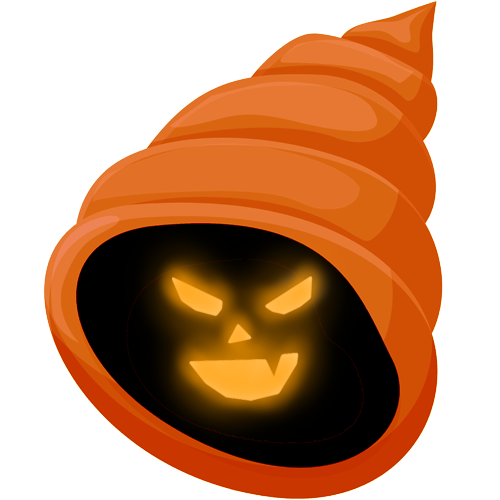
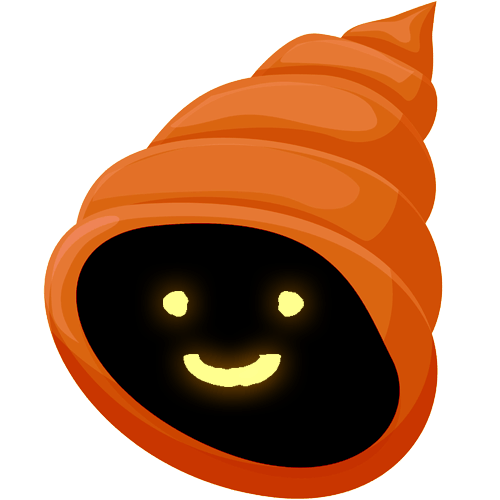
Added conch expressions

Changed region(s): [[0.3, 0.48, 0.69, 0.87]]

diff --git a/src/lib/dialog/conch.ts b/src/lib/dialog/conch.ts
@@ -8,6 +8,11 @@ import thinking from "$assets/emoji/thinking.svg";
 import confused from "$assets/emoji/confused.svg";
 import dizzy from "$assets/emoji/dizzy.svg";
 import conch_smile from "$assets/characters/conch/smile.png";
+import conch_scary from "$assets/characters/conch/scary.png";
+import conch_openMouth from "$assets/characters/conch/openMouth.png";
+import conch_frown from "$assets/characters/conch/frown.png";
+import conch_neutral from "$assets/characters/conch/neutral.png";
+import conch_cool from "$assets/characters/conch/cool.png";
 
 export const observationTask = (onComplete?: () => void) => {
   return {
@@ -39,7 +44,7 @@ export const observationTask = (onComplete?: () => void) => {
 
 export const conchEncounter1 = [
   {
-    imgSrc: conch_smile,
+    imgSrc: conch_scary,
     name: "conch",
     text: "ch1_conch-encounter-1",
     options: [
@@ -48,12 +53,12 @@ export const conchEncounter1 = [
         text: "ch1_conch-encounter-1_o1",
         nextDialog: [
           {
-            imgSrc: conch_smile,
+            imgSrc: conch_neutral,
             name: "conch",
             text: "ch1_conch-encounter-1_o1-1",
           },
           {
-            imgSrc: conch_smile,
+            imgSrc: conch_cool,
             name: "conch",
             text: "ch1_conch-encounter-1_o1-2",
           },
@@ -66,12 +71,12 @@ export const conchEncounter1 = [
 export const conchEncounter2 = (onComplete?: () => void) => {
   return [
     {
-      imgSrc: conch_smile,
+      imgSrc: conch_scary,
       name: "conch",
       text: "ch1_conch-encounter-2",
     },
     {
-      imgSrc: conch_smile,
+      imgSrc: conch_scary,
       name: "conch",
       text: "ch1_conch-encounter-3",
       options: [
@@ -95,7 +100,7 @@ export const conchEncounter2 = (onComplete?: () => void) => {
               text: "ch1_conch-encounter-3_o2-2",
             },
             {
-              imgSrc: conch_smile,
+              imgSrc: conch_neutral,
               name: "conch",
               text: "ch1_conch-encounter-3_o2-3",
             },
@@ -105,22 +110,22 @@ export const conchEncounter2 = (onComplete?: () => void) => {
               text: "ch1_conch-encounter-3_o2-4",
             },
             {
-              imgSrc: conch_smile,
+              imgSrc: conch_openMouth,
               name: "conch",
               text: "ch1_conch-encounter-3_o2-5",
             },
             {
-              imgSrc: conch_smile,
+              imgSrc: conch_frown,
               name: "conch",
               text: "ch1_conch-encounter-3_o2-6",
             },
             {
-              imgSrc: conch_smile,
+              imgSrc: conch_neutral,
               name: "conch",
               text: "ch1_conch-encounter-3_o2-7",
             },
             {
-              imgSrc: conch_smile,
+              imgSrc: conch_neutral,
               name: "conch",
               text: "ch1_conch-encounter-3_o2-8",
               onProceed: () => {
@@ -131,7 +136,7 @@ export const conchEncounter2 = (onComplete?: () => void) => {
               },
             },
             {
-              imgSrc: conch_smile,
+              imgSrc: conch_neutral,
               name: "conch",
               text: "ch1_conch-encounter-4",
               onProceed: () => {
@@ -139,7 +144,7 @@ export const conchEncounter2 = (onComplete?: () => void) => {
               },
             },
             {
-              imgSrc: conch_smile,
+              imgSrc: conch_neutral,
               name: "conch",
               text: "sm-observation_desc",
               onProceed: () => {
@@ -158,21 +163,46 @@ export const conchEncounter2 = (onComplete?: () => void) => {
 
 export const conchReview1 = [
   {
-    imgSrc: conch_smile,
+    imgSrc: conch_scary,
     name: "conch",
     text: "ch1_conch-review-1",
+    options: [
+      {
+        imgSrc: openMouth,
+        text: "ch1_conch-review-1_o1",
+        nextDialog: [
+          {
+            imgSrc: conch_smile,
+            name: "conch",
+            text: "ch1_conch-review-1_o1-1",
+          },
+          {
+            imgSrc: conch_smile,
+            name: "conch",
+            text: "ch1_conch-review-1_o1-2",
+          },
+        ],
+      },
+    ],
     onProceed: () => {
       get(dialogApi).zHigh = true;
       get(smApi).isInteractable = false;
       get(smApi).modalClass = "pt-[111px]";
       get(hudApi).showSmModal = true;
-      get(smApi).currentIndex = 1;
     },
   },
   {
     imgSrc: conch_smile,
     name: "conch",
     text: "ch1_conch-review-2",
+    onProceed: () => {
+      get(smApi).currentIndex = 1;
+    },
+  },
+  {
+    imgSrc: conch_smile,
+    name: "conch",
+    text: "ch1_conch-review-3",
     onProceed: () => {
       get(hudApi).showSmModal = false;
       get(smApi).reset();
@@ -182,49 +212,49 @@ export const conchReview1 = [
   {
     imgSrc: conch_smile,
     name: "conch",
-    text: "ch1_conch-review-3",
+    text: "ch1_conch-review-4",
     options: [
       {
         imgSrc: thinking,
-        text: "ch1_conch-review-3_q1",
+        text: "ch1_conch-review-4_q1",
         nextDialog: [
           {
             imgSrc: conch_smile,
             name: "conch",
-            text: "ch1_conch-review-3_q1-1",
+            text: "ch1_conch-review-4_q1-1",
           },
           {
             imgSrc: conch_smile,
             name: "conch",
-            text: "ch1_conch-review-3_q1-2",
+            text: "ch1_conch-review-4_q1-2",
             options: [
               {
                 imgSrc: thinking,
-                text: "ch1_conch-review-3_q2",
+                text: "ch1_conch-review-4_q2",
                 nextDialog: [
                   {
                     imgSrc: conch_smile,
                     name: "conch",
-                    text: "ch1_conch-review-3_q2-1",
+                    text: "ch1_conch-review-4_q2-1",
                   },
                   {
                     imgSrc: conch_smile,
                     name: "conch",
-                    text: "ch1_conch-review-3_q2-2",
+                    text: "ch1_conch-review-4_q2-2",
                     options: [
                       {
                         imgSrc: thinking,
-                        text: "ch1_conch-review-3_q3",
+                        text: "ch1_conch-review-4_q3",
                         nextDialog: [
                           {
                             imgSrc: conch_smile,
                             name: "conch",
-                            text: "ch1_conch-review-3_q3-1",
+                            text: "ch1_conch-review-4_q3-1",
                           },
                           {
                             imgSrc: conch_smile,
                             name: "conch",
-                            text: "ch1_conch-review-3_q3-2",
+                            text: "ch1_conch-review-4_q3-2",
                             onProceed: () => {
                               get(objectivesApi).completeTask(
                                 "task_ask-question",
@@ -234,7 +264,7 @@ export const conchReview1 = [
                           {
                             imgSrc: conch_smile,
                             name: "conch",
-                            text: "ch1_conch-review-4",
+                            text: "ch1_conch-review-5",
                           },
                         ],
                       },

diff --git a/src/pages/location/wrecks/events.ts b/src/pages/location/wrecks/events.ts
@@ -145,7 +145,6 @@ export const startChapterOne = () => {
 
 export const makeObservation = (index: number) => {
   const hud = get(hudApi);
-  const notepad = get(notepadApi);
   const objectives = get(objectivesApi);
   const inventory = get(inventoryApi);
 
@@ -184,6 +183,13 @@ export const makeObservation = (index: number) => {
       }
     },
   });
+};
+
+export const dbAddObservations = () => {
+  for (let i = 1; i <= 3; i++) {
+    const observationKey = `ch1_observations-${i}`;
+    if (notepad.currentPage) notepad.currentPage.addLine(observationKey);
+  }
 };
 
 export const finishObservationTask = () => {

diff --git a/src/lib/components/gameObjects/Conch.svelte b/src/lib/components/gameObjects/Conch.svelte
@@ -1,6 +1,7 @@
 <script lang="ts">
   import conch from "$assets/characters/conch/shell.png";
   import smile from "$assets/characters/conch/smile.png";
+  import scary from "$assets/characters/conch/scary.png";
   let {
     class: extraClass,
     style: extraStyle,
@@ -35,7 +36,7 @@
 >
   <img src={conch} alt="conch" class="absolute bottom-0 size-full z-0" />
   <img
-    src={smile}
+    src={scary}
     alt="conch_smile"
     class="conch-face absolute bottom-0 size-full z-[1] {faceRevealed ||
     revealFace

diff --git a/src/pages/location/wrecks/Wrecks.svelte b/src/pages/location/wrecks/Wrecks.svelte
@@ -32,6 +32,7 @@
     finishedObservationTask,
     startChapterOne,
     makeObservation,
+    dbAddObservations,
     finishObservationTask,
     conchEncountered,
   } from "./events";
@@ -84,6 +85,7 @@
       startChapterOne();
     }
     if (progress >= 2) {
+      dbAddObservations();
       finishObservationTask();
     }
     // startChapterOne();
